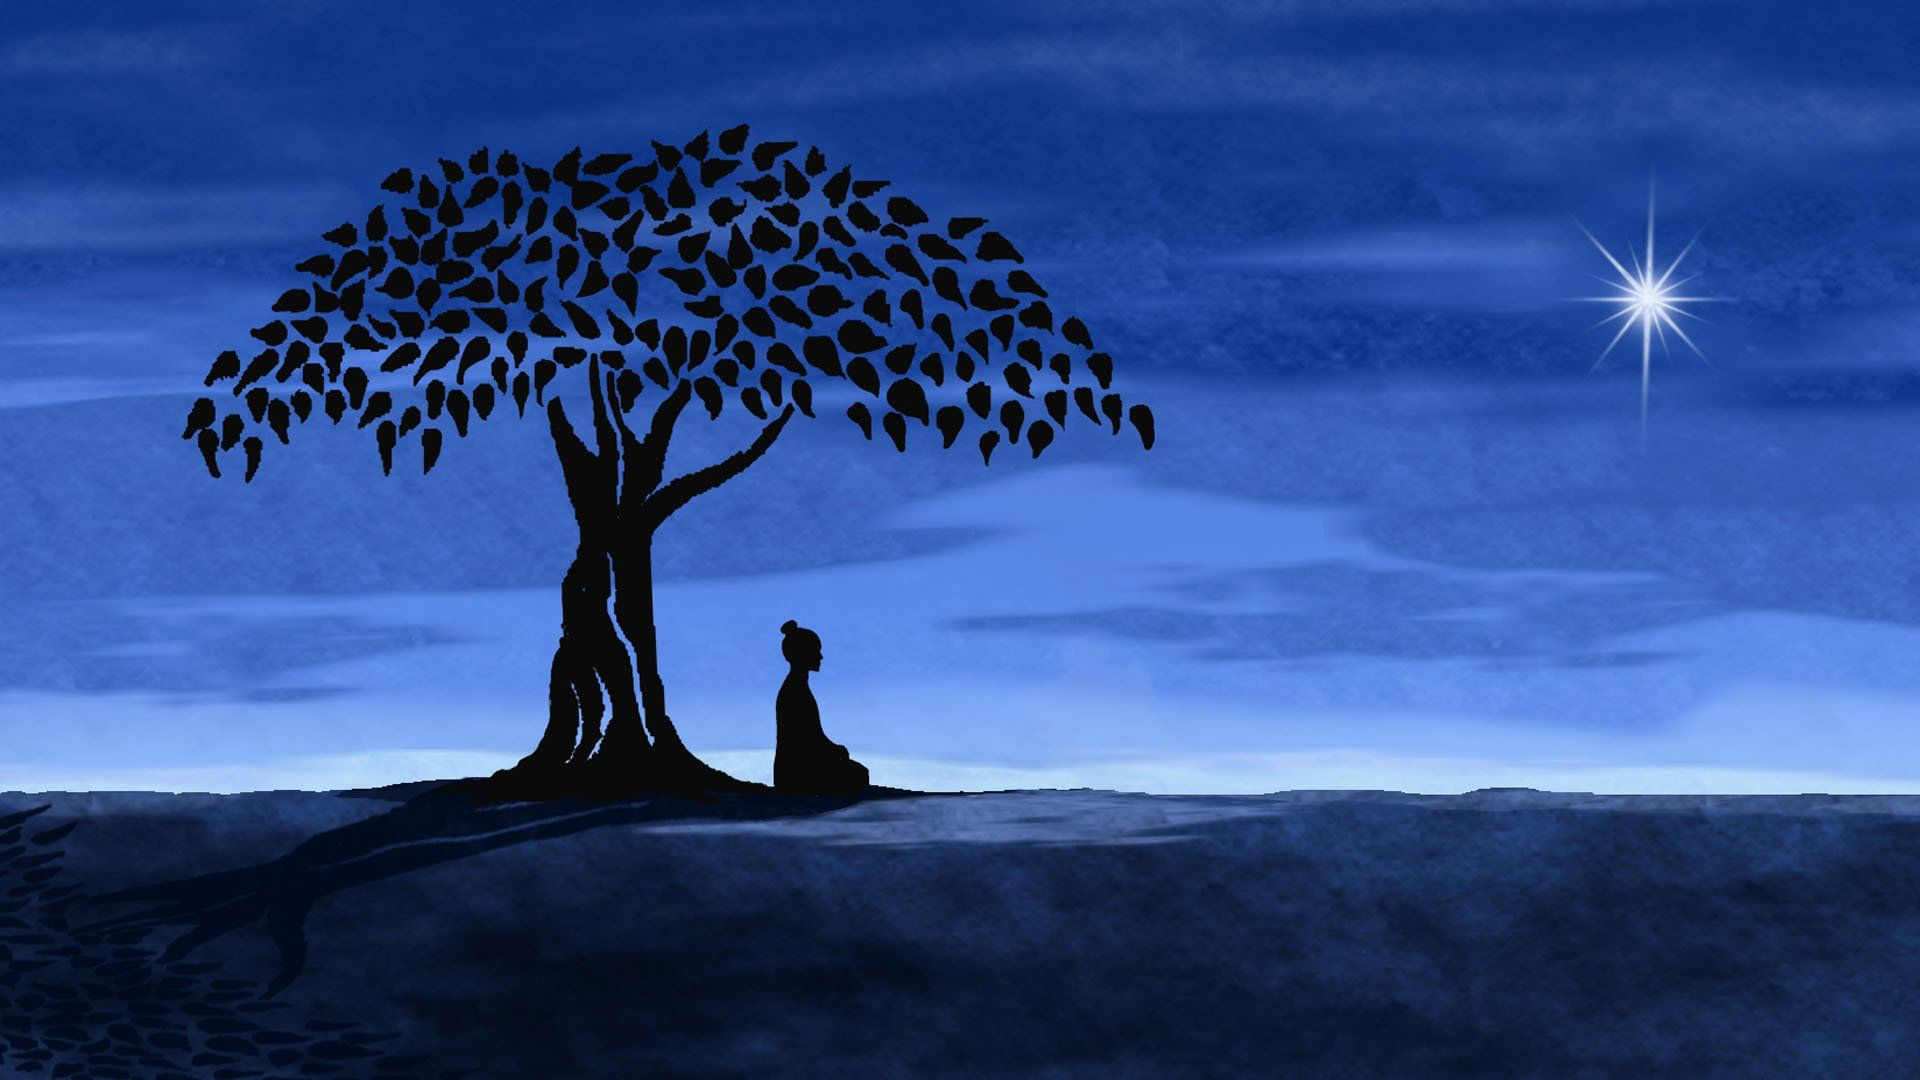
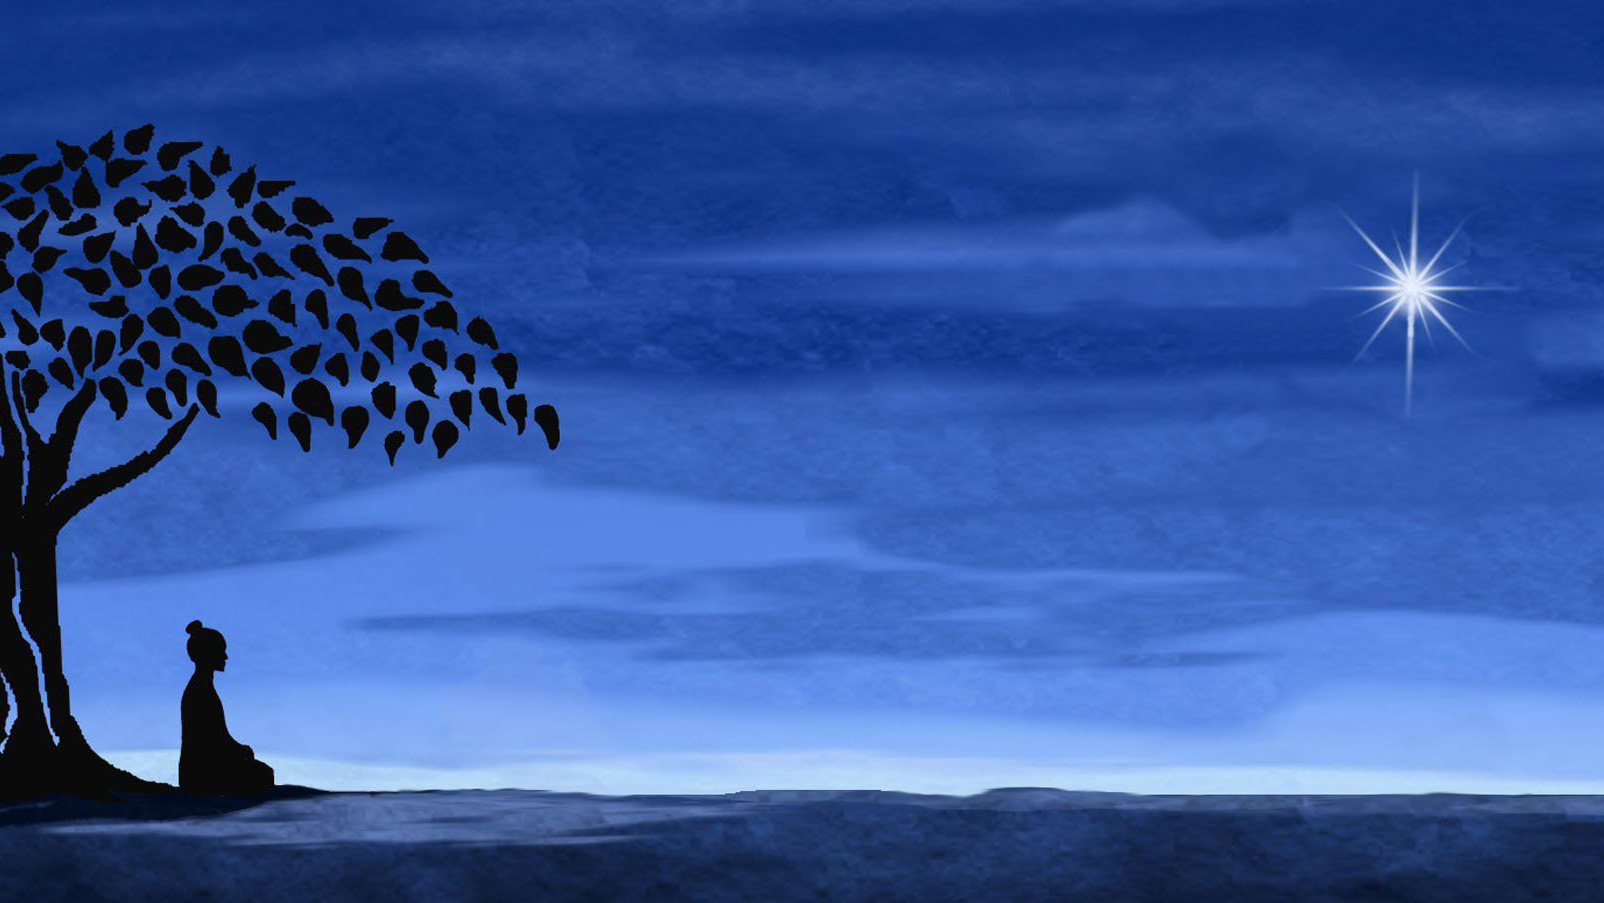
Image editted, form corrected

diff --git a/survey_form_fcc.html b/survey_form_fcc.html
@@ -476,6 +476,10 @@
                     <input type="radio" name="heard-about" value="religious" class="input-radio">
                     Religious associations
                 </label>
+                <label>
+                    <input type="radio" name="heard-about" value="books" class="input-radio">
+                    Self-education through internet/social media
+                </label>
             </div>
         </div>
 
@@ -507,7 +511,7 @@
                 <label>
                     <input type="checkbox" name="expectation" value="Better sleep" 
                     class="input-checkbox">
-                    Better sleep
+                    Better sleep and calm living
                 </label>
                 <label>
                     <input type="checkbox" name="expectation" value="memory" 
@@ -527,7 +531,7 @@
                 <label>
                     <input type="checkbox" name="expectation" value="distress" 
                     class="input-checkbox">
-                    Psychological distress
+                    More control over thoughts
                 </label>
                 <label>
                     <input type="checkbox" name="expectation" value="substance abuse" 
@@ -540,11 +544,6 @@
                     Increased emotional intelligence
                 </label>
                 <label>
-                    <input type="checkbox" name="expectation" value="Hypersensitivity" 
-                    class="input-checkbox">
-                    Hypersensitivity
-                </label>
-                <label>
                     <input type="checkbox" name="expectation" value="awakening" 
                     class="input-checkbox">
                     Spiritual connection/ awakening
@@ -552,12 +551,7 @@
                 <label>
                     <input type="checkbox" name="expectation" value="Increased sexual activity" 
                     class="input-checkbox">
-                    Increased sexual activity
-                </label>
-                <label>
-                    <input type="checkbox" name="expectation" value="Frustration" 
-                    class="input-checkbox">
-                    Frustration
+                    Changes in sexual activity
                 </label>
                 <label>
                     <input type="checkbox" name="expectation" value="Mood improvement" 
@@ -565,19 +559,9 @@
                     Mood improvement
                 </label>
                 <label>
-                    <input type="checkbox" name="expectation" value="misery" 
-                    class="input-checkbox">
-                    Grief/misery
-                </label>
-                <label>
                     <input type="checkbox" name="expectation" value="lung capacity" 
                     class="input-checkbox">
                     Improved lung capacity
-                </label>
-                <label>
-                    <input type="checkbox" name="expectation" value="Decreased sexual activity" 
-                    class="input-checkbox">
-                    Decreased sexual activity
                 </label>
                 <label>
                     <input type="checkbox" name="expectation" value="other" 
@@ -681,14 +665,9 @@
                     Boring
                 </label>
                 <label>
-                    <input type="checkbox" name="expectation" value="useful" 
-                    class="input-checkbox">
-                    Useful
-                </label>
-                <label>
                     <input type="checkbox" name="expectation" value="Mood improvement" 
                     class="input-checkbox">
-                    Mood improvement
+                    Mood improvements
                 </label>
                 <label>
                     <input type="checkbox" name="expectation" value="pointless" 

diff --git a/survey_form_fcc.css b/survey_form_fcc.css
@@ -130,7 +130,7 @@ body::before {
       rgba(12, 12, 20, 0.733),
       rgba(0, 0, 0, 0.849)
     ),
-    url(https://github.com/Akshay-ch-dj/Freecodecamp-projects/blob/master/images/meditation_form_background.jpg?raw=true);
+    url("/images/meditation_form_background.jpg");
   background-size: cover;
   background-repeat: no-repeat;
   background-position: center;
